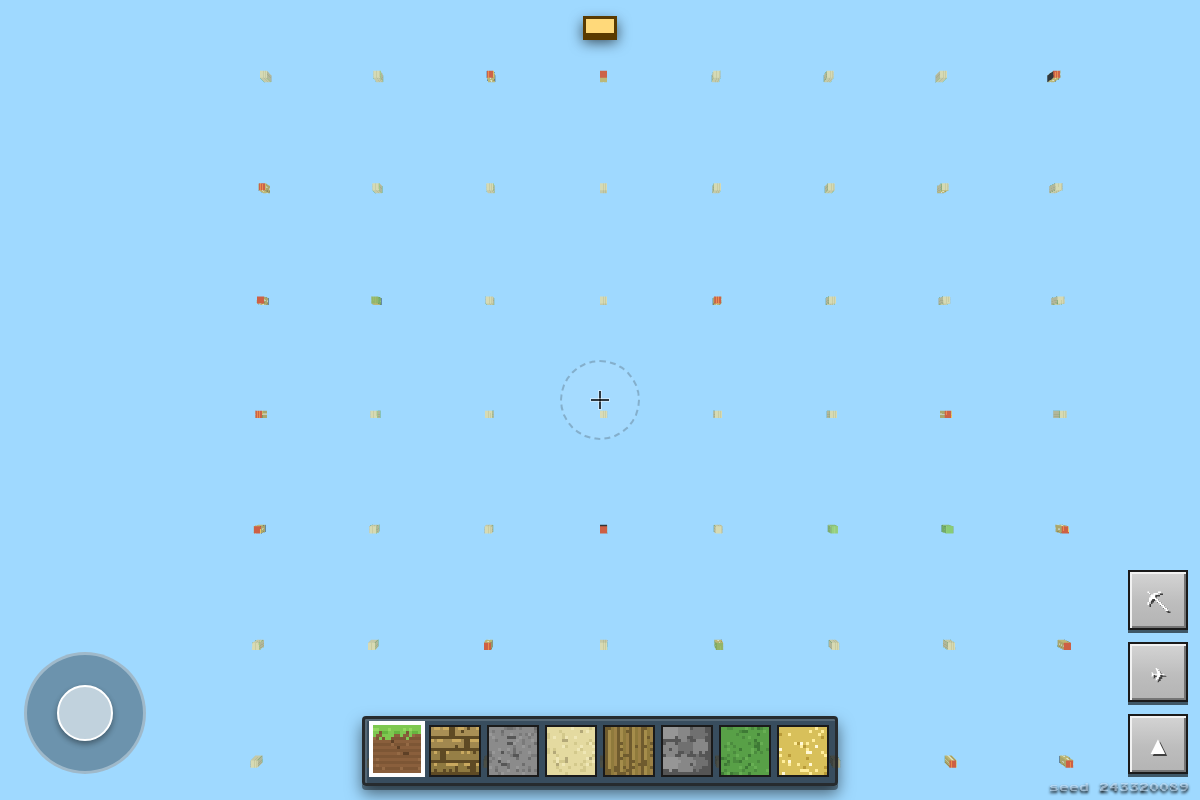
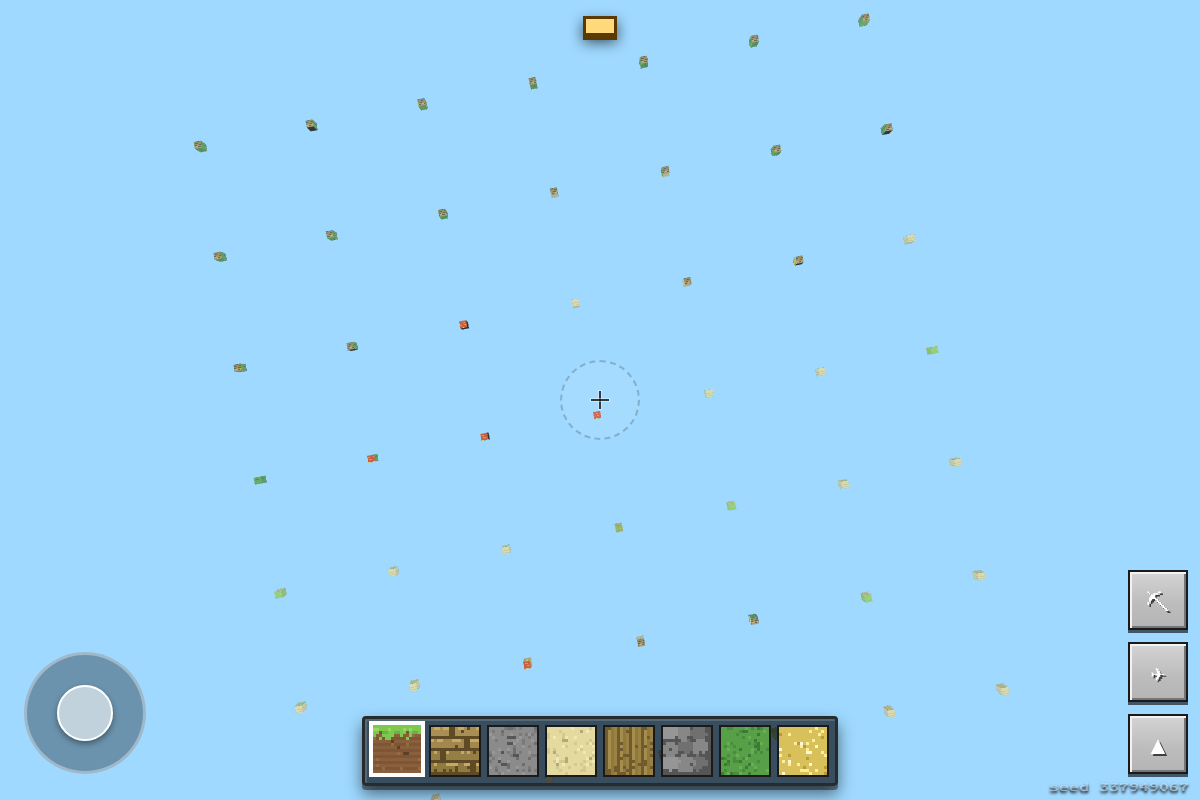
Classic-style terrain: rolling green countryside around sea level, real oceans, sandy shorelines, rare big mountains, coastal flat spawn; cache-bust v6

diff --git a/main.js b/main.js
@@ -4,7 +4,7 @@
    and UI. Fan-made, no assets/code from any commercial game, not affiliated
    with Mojang/Minecraft. */
 import * as THREE from "./vendor/three.module.js";
-import { buildAtlas, tileCanvas, tileIndex, TILE, ATLAS } from "./textures.js?v=5";
+import { buildAtlas, tileCanvas, tileIndex, TILE, ATLAS } from "./textures.js?v=6";
 
 /* ============================ constants ============================ */
 const CH = 16;          // chunk size (x/z)
@@ -136,17 +136,17 @@ function fbm2(x, z, oct) {
   return v / tot;
 }
 
-/* nicer terrain: continents + ridged mountains + detail.
-   Base sits ABOVE water level so oceans are rare; lakes only form in
-   genuine basins. Mountains grow on high continents near ridge lines. */
+/* classic-style terrain: rolling green countryside around sea level,
+   real oceans where the land dips low, sandy beaches at the water's edge,
+   occasional large mountains on big landmasses — the iconic alpha look. */
 function terrainH(gx, gz) {
-  const c = fbm2(gx * 0.011, gz * 0.011, 3);                                   // continental 0..1
-  const rw = 1 - Math.abs(2 * noise2(gx * 0.021 + 50, gz * 0.021 - 10) - 1);   // ridge 0..1
-  const hills = (noise2(gx * 0.055 + 7, gz * 0.055 + 3) - 0.5);
-  const det = (noise2(gx * 0.17, gz * 0.17 + 20) - 0.5);
-  let h = 38 + (c - 0.5) * 14 + hills * 7 +
-           Math.pow(rw, 2.2) * Math.max(0, c - 0.4) * 46 + det * 2;
-  return Math.max(26, Math.min(62, Math.round(h)));
+  const c = fbm2(gx * 0.0105, gz * 0.0105, 3);                                 // continents 0..1
+  const rw = 1 - Math.abs(2 * noise2(gx * 0.018 + 50, gz * 0.018 - 10) - 1);   // ridge 0..1
+  const hills = (noise2(gx * 0.05 + 7, gz * 0.05 + 3) - 0.5);
+  const det = (noise2(gx * 0.15, gz * 0.15 + 20) - 0.5);
+  let h = 33.5 + (c - 0.5) * 15 + hills * 8.5 +                                // rolling land, dips below WL = seas
+           Math.pow(rw, 2.6) * Math.max(0, c - 0.52) * 62 + det * 2;           // rare mountains
+  return Math.max(20, Math.min(62, Math.round(h)));
 }
 
 /* ============================ light engine ============================ */
@@ -255,7 +255,7 @@ function genBase(c) {
     for (let z = 0; z < CH; z++) {
       const gx = cx0 + x, gz = cz0 + z;
       const h = terrainH(gx, gz);
-      const beach = h <= WL + 1;                       // sand skin only around lakes
+      const beach = h <= WL + 2;                       // sand skin around every shore
       for (let y = 0; y < H; y++) {
         if (y === 0) d[idx(x, y, z)] = BEDROCK;
         else if (y < h - 3) d[idx(x, y, z)] = STONE;
@@ -489,19 +489,28 @@ const HALF = 0.3, EYE = 1.62;
 function spawn() {
   let sx = 8, sz = 8;
   outer:
-  for (let r = 0; r < 60; r++) {
-    for (let a = 0; a < 24; a++) {
-      const gx = sx + Math.round(Math.cos(a / 24 * Math.PI * 2) * r);
-      const gz = sz + Math.round(Math.sin(a / 24 * Math.PI * 2) * r);
+  for (let r = 0; r < 80; r++) {
+    for (let a = 0; a < 32; a++) {
+      const gx = sx + Math.round(Math.cos(a / 32 * Math.PI * 2) * r);
+      const gz = sz + Math.round(Math.sin(a / 32 * Math.PI * 2) * r);
       const h = terrainH(gx, gz);
-      if (h < WL + 5 || h > 48) continue;              // grassy, well above water
-      let flat = true;
-      for (let dx = -6; dx <= 6 && flat; dx += 2) {
-        for (let dz = -6; dz <= 6 && flat; dz += 2) {
+      if (h < WL + 3 || h > 46) continue;              // dry, not a mountain
+      let flat = true;                                 // flat enough meadow
+      for (let dx = -5; dx <= 5 && flat; dx += 2) {
+        for (let dz = -5; dz <= 5 && flat; dz += 2) {
           if (Math.abs(terrainH(gx + dx, gz + dz) - h) > 3) flat = false;
         }
       }
-      if (flat) { sx = gx; sz = gz; break outer; }
+      if (!flat) continue;
+      let nearWater = false;                           // classic coastal spawn
+      for (let d = 8; d <= 30 && !nearWater; d += 4) {
+        for (let dd = 0; dd < 12; dd++) {
+          const wx = gx + Math.round(Math.cos(dd / 12 * Math.PI * 2) * d);
+          const wz = gz + Math.round(Math.sin(dd / 12 * Math.PI * 2) * d);
+          if (terrainH(wx, wz) <= WL) { nearWater = true; break; }
+        }
+      }
+      if (nearWater) { sx = gx; sz = gz; break outer; }
     }
   }
   player.pos.set(sx + 0.5, terrainH(sx, sz) + 3, sz + 0.5);

diff --git a/index.html b/index.html
@@ -218,6 +218,6 @@
   </div>
 </div>
 
-<script type="module" src="main.js?v=5"></script>
+<script type="module" src="main.js?v=6"></script>
 </body>
 </html>
